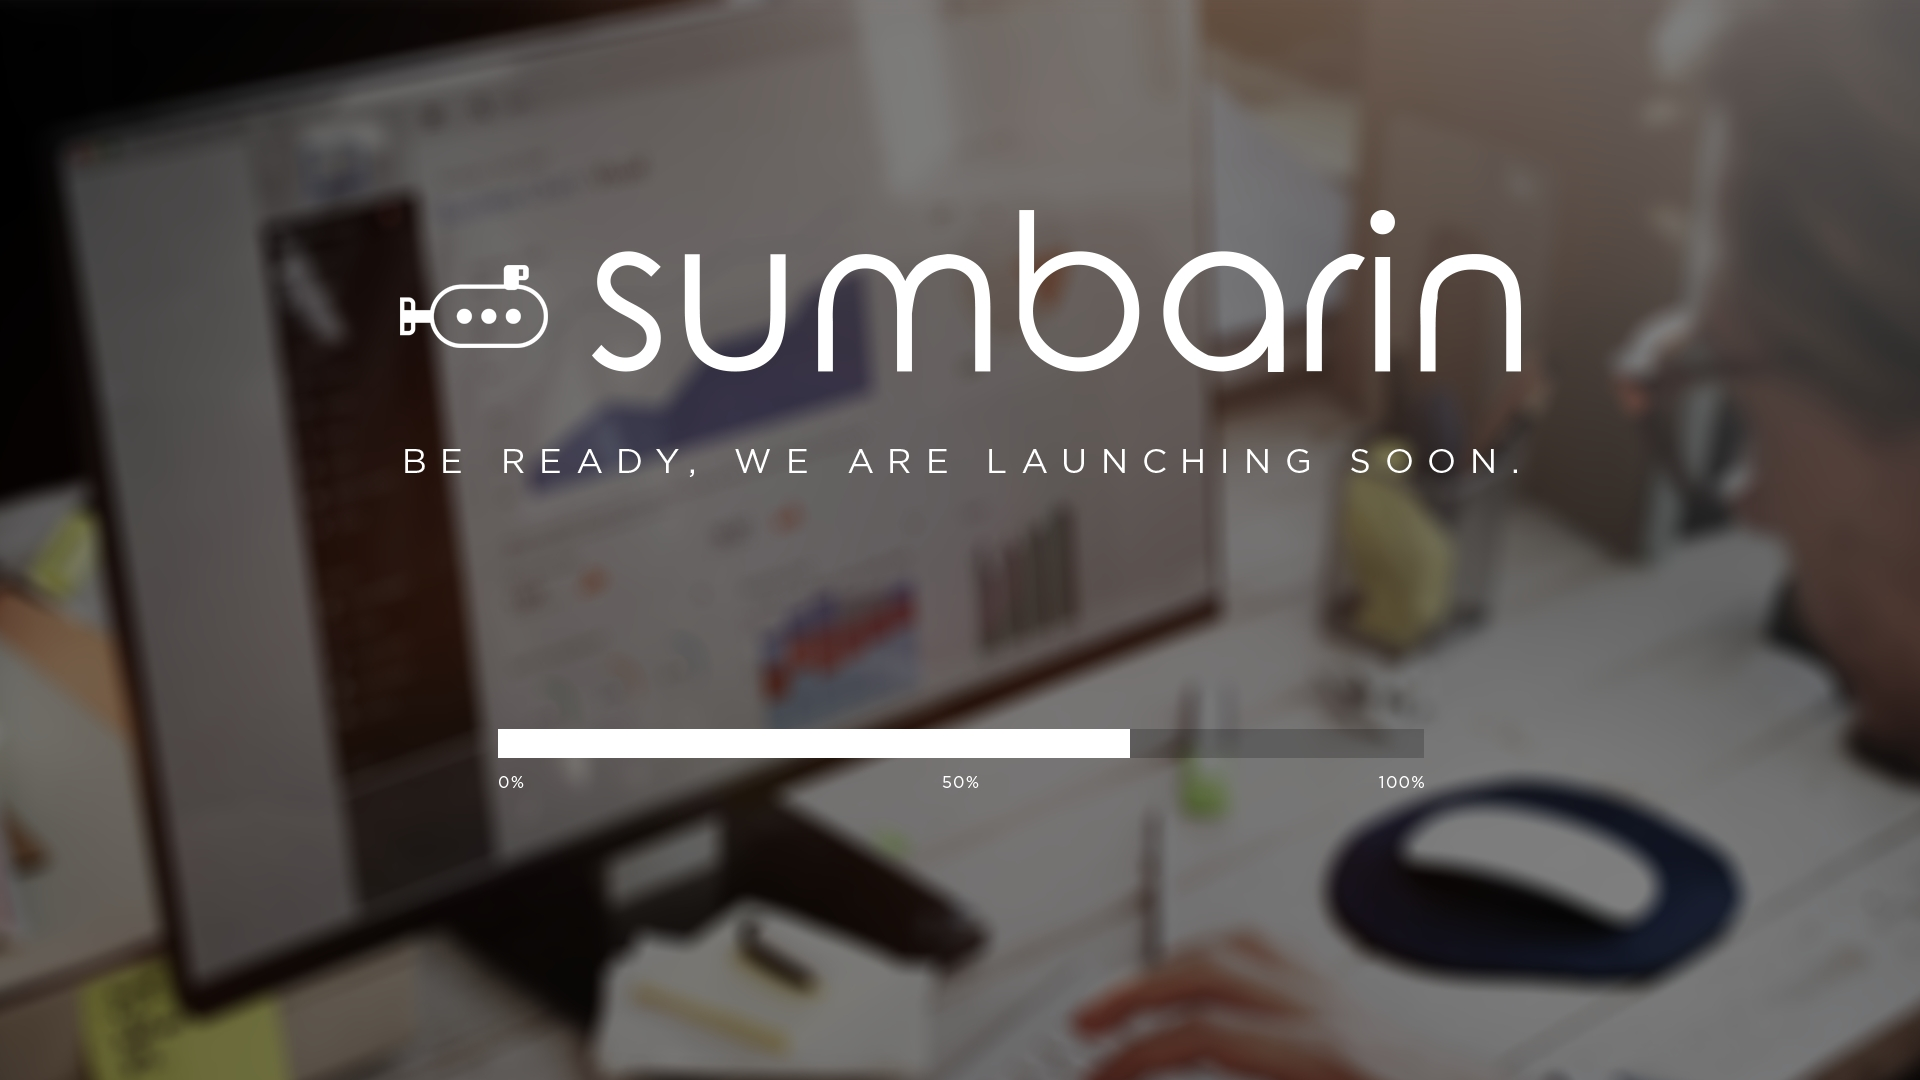
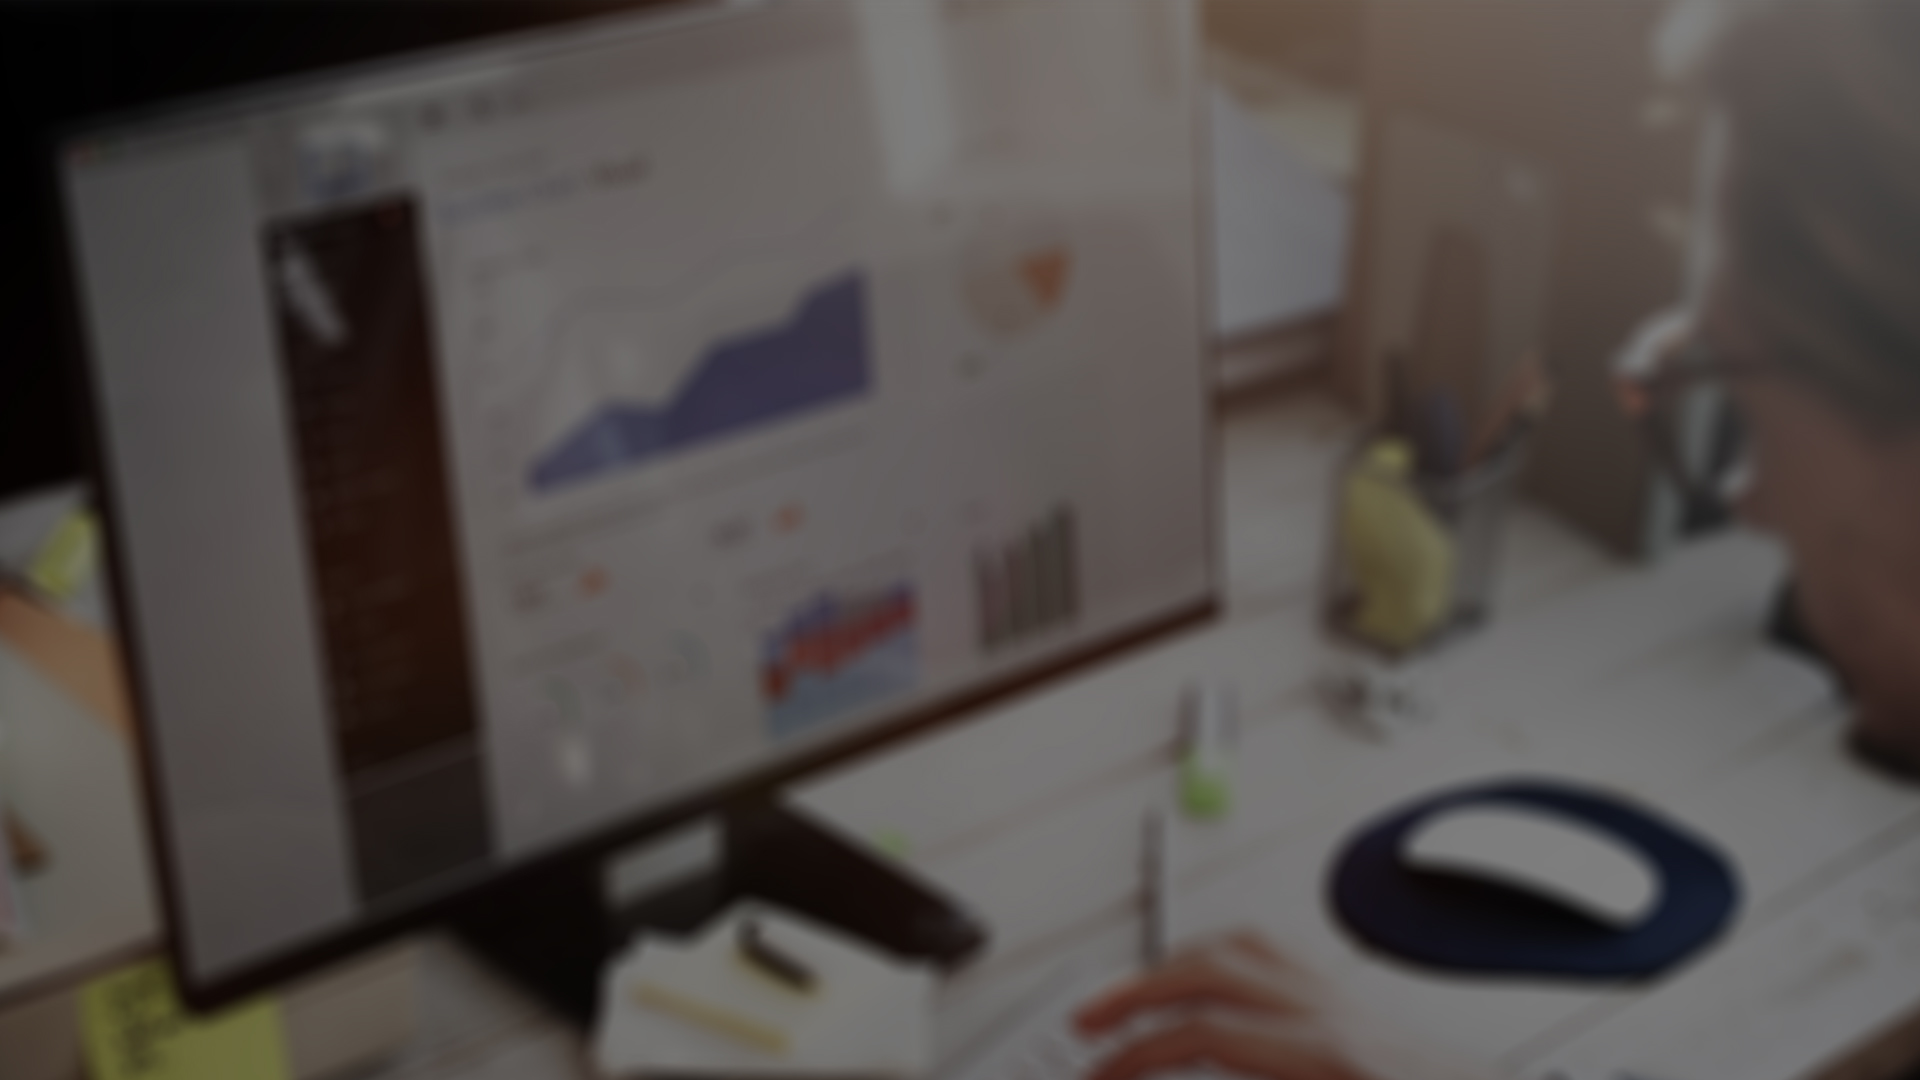
updated comming soon

diff --git a/dist/bundle.js b/dist/bundle.js
@@ -17575,11 +17575,7 @@ var _LaunchingSoon2 = _interopRequireDefault(_LaunchingSoon);
 function _interopRequireDefault(obj) { return obj && obj.__esModule ? obj : { default: obj }; }
 
 function Home() {
-    return _react2.default.createElement(
-        'div',
-        null,
-        _react2.default.createElement(_LaunchingSoon2.default, null)
-    );
+    return _react2.default.createElement(_LaunchingSoon2.default, null);
 }
 
 exports.default = Home;
@@ -17594,6 +17590,7 @@ exports.default = Home;
 Object.defineProperty(exports, "__esModule", {
     value: true
 });
+exports.default = LaunchingSoon;
 
 var _react = __webpack_require__(12);
 
@@ -17604,10 +17601,52 @@ var _LaunchingSoonStyle = __webpack_require__(94);
 function _interopRequireDefault(obj) { return obj && obj.__esModule ? obj : { default: obj }; }
 
 function LaunchingSoon() {
-    return _react2.default.createElement(_LaunchingSoonStyle.LanchingSoonSection, null);
+    return _react2.default.createElement(
+        _LaunchingSoonStyle.LanchingSoonSection,
+        null,
+        _react2.default.createElement(
+            _LaunchingSoonStyle.Title,
+            null,
+            'Sumbarin'
+        ),
+        _react2.default.createElement(
+            _LaunchingSoonStyle.Content,
+            null,
+            'Be ready, we are lauching soon'
+        ),
+        _react2.default.createElement(
+            _LaunchingSoonStyle.List,
+            null,
+            _react2.default.createElement(
+                _LaunchingSoonStyle.List__Item,
+                null,
+                _react2.default.createElement(
+                    _LaunchingSoonStyle.Link__Twitter,
+                    { href: 'http://www.twitter.com/thesumbarin' },
+                    'Twitter'
+                )
+            ),
+            _react2.default.createElement(
+                _LaunchingSoonStyle.List__Item,
+                null,
+                _react2.default.createElement(
+                    _LaunchingSoonStyle.Link__Facebook,
+                    { href: 'http://www.facebook.com/thesumbarin' },
+                    'Facebook'
+                )
+            ),
+            _react2.default.createElement(
+                _LaunchingSoonStyle.List__Item,
+                null,
+                _react2.default.createElement(
+                    _LaunchingSoonStyle.Link__Instagram,
+                    { href: 'http://www.instagram.com/thesumbarin' },
+                    'Instagram'
+                )
+            )
+        )
+    );
 }
-
-exports.default = LaunchingSoon;
 
 /***/ }),
 /* 94 */
@@ -17619,10 +17658,18 @@ exports.default = LaunchingSoon;
 Object.defineProperty(exports, "__esModule", {
   value: true
 });
-exports.LanchingSoonSection = exports.xx = undefined;
+exports.Link__Instagram = exports.Link__Facebook = exports.Link__Twitter = exports.Social__Link = exports.List__Item = exports.List = exports.Content = exports.Title = exports.LanchingSoonSection = exports.xx = undefined;
 
 var _templateObject = _taggedTemplateLiteral(['\n  font-family: rounded;\n  font-size: 36px;\n  padding-top: 200px;\n  text-align: center;\n  text-transform: lowercase;\n  &:before {\n    content: "";\n    background-image: url(./public/img/icons/logoSumbarinCircleRedBg.svg);\n    background-size: contain;\n    background-repeat: no-repeat;\n    background-position: center;\n    right: 50%;\n    top: 30%;\n    display: inline-block;\n    position: absolute;\n    width: 100px;\n    height: 100px;\n    transform: translateX(50%);\n  }\n'], ['\n  font-family: rounded;\n  font-size: 36px;\n  padding-top: 200px;\n  text-align: center;\n  text-transform: lowercase;\n  &:before {\n    content: "";\n    background-image: url(./public/img/icons/logoSumbarinCircleRedBg.svg);\n    background-size: contain;\n    background-repeat: no-repeat;\n    background-position: center;\n    right: 50%;\n    top: 30%;\n    display: inline-block;\n    position: absolute;\n    width: 100px;\n    height: 100px;\n    transform: translateX(50%);\n  }\n']),
-    _templateObject2 = _taggedTemplateLiteral(['\n    background-color: white;\n    background-image: url(./public/img/backgrounds/loading.jpg);\n    background-size: cover;\n    height: 100vh;\n    width: 100%;\n    background-repeat: no-repeat;\n    background-position: center;\n'], ['\n    background-color: white;\n    background-image: url(./public/img/backgrounds/loading.jpg);\n    background-size: cover;\n    height: 100vh;\n    width: 100%;\n    background-repeat: no-repeat;\n    background-position: center;\n']);
+    _templateObject2 = _taggedTemplateLiteral(['\n    background-color: white;\n    background-image: url(./public/img/backgrounds/loading.jpg);\n    background-size: cover;\n    height: 100vh;\n    width: 100%;\n    background-repeat: no-repeat;\n    background-position: center;\n    text-align: center;\n'], ['\n    background-color: white;\n    background-image: url(./public/img/backgrounds/loading.jpg);\n    background-size: cover;\n    height: 100vh;\n    width: 100%;\n    background-repeat: no-repeat;\n    background-position: center;\n    text-align: center;\n']),
+    _templateObject3 = _taggedTemplateLiteral(['\n  font-family: rounded;\n  font-size: 80px;\n  padding-top: 200px;\n  text-align: center;\n  text-transform: lowercase;\n  color: white;\n  @media (min-width: 768px) {\n\t\t  font-size: 120px;\n\t}\n'], ['\n  font-family: rounded;\n  font-size: 80px;\n  padding-top: 200px;\n  text-align: center;\n  text-transform: lowercase;\n  color: white;\n  @media (min-width: 768px) {\n\t\t  font-size: 120px;\n\t}\n']),
+    _templateObject4 = _taggedTemplateLiteral(['\n  font-family: lato;\n  font-size: 24px;\n  text-align: center;\n  text-transform: lowercase;\n  color: white;\n  @media (min-width: 768px) {\n    font-size: 28px;\n  }\n'], ['\n  font-family: lato;\n  font-size: 24px;\n  text-align: center;\n  text-transform: lowercase;\n  color: white;\n  @media (min-width: 768px) {\n    font-size: 28px;\n  }\n']),
+    _templateObject5 = _taggedTemplateLiteral(['\n  color: rgb(32, 42, 46);\n  margin-bottom: 20px;\n  padding-left: 0;\n'], ['\n  color: rgb(32, 42, 46);\n  margin-bottom: 20px;\n  padding-left: 0;\n']),
+    _templateObject6 = _taggedTemplateLiteral(['\n  color: black;\n  display: inline-block;\n  flex: 0 0 auto;\n  font-size: 28px;\n  width: 42px;\n  height: 42px;\n  margin: 0 24px;\n'], ['\n  color: black;\n  display: inline-block;\n  flex: 0 0 auto;\n  font-size: 28px;\n  width: 42px;\n  height: 42px;\n  margin: 0 24px;\n']),
+    _templateObject7 = _taggedTemplateLiteral(['\n  color: white;\n  background-size: contain;\n  background-repeat: no-repeat;\n  background-position: center;\n  text-indent: -9999px;\n  white-space: nowrap;\n  display: inline-block;\n  position: relative;\n  height: 100%;\n  width: 100%;\n  transtion: color .2s;\n  &:hover {\n    color: black;\n  }\n'], ['\n  color: white;\n  background-size: contain;\n  background-repeat: no-repeat;\n  background-position: center;\n  text-indent: -9999px;\n  white-space: nowrap;\n  display: inline-block;\n  position: relative;\n  height: 100%;\n  width: 100%;\n  transtion: color .2s;\n  &:hover {\n    color: black;\n  }\n']),
+    _templateObject8 = _taggedTemplateLiteral(['\n  background-image: url(./public/img/icons/logoTwitter.svg);\n'], ['\n  background-image: url(./public/img/icons/logoTwitter.svg);\n']),
+    _templateObject9 = _taggedTemplateLiteral(['\n  background-image: url(./public/img/icons/logoFacebook.svg);\n'], ['\n  background-image: url(./public/img/icons/logoFacebook.svg);\n']),
+    _templateObject10 = _taggedTemplateLiteral(['\n  background-image: url(./public/img/icons/logoInstagram.svg);\n'], ['\n  background-image: url(./public/img/icons/logoInstagram.svg);\n']);
 
 var _styledComponents = __webpack_require__(16);
 
@@ -17637,6 +17684,18 @@ function _taggedTemplateLiteral(strings, raw) { return Object.freeze(Object.defi
 var xx = exports.xx = (0, _styledComponents2.default)(_styles.Section__Title)(_templateObject);
 
 var LanchingSoonSection = exports.LanchingSoonSection = (0, _styledComponents2.default)('div')(_templateObject2);
+
+var Title = exports.Title = (0, _styledComponents2.default)('h1')(_templateObject3);
+
+var Content = exports.Content = (0, _styledComponents2.default)('p')(_templateObject4);
+
+var List = exports.List = _styledComponents2.default.ul(_templateObject5);
+var List__Item = exports.List__Item = _styledComponents2.default.li(_templateObject6);
+
+var Social__Link = exports.Social__Link = _styledComponents2.default.a(_templateObject7);
+var Link__Twitter = exports.Link__Twitter = (0, _styledComponents2.default)(Social__Link)(_templateObject8);
+var Link__Facebook = exports.Link__Facebook = (0, _styledComponents2.default)(Social__Link)(_templateObject9);
+var Link__Instagram = exports.Link__Instagram = (0, _styledComponents2.default)(Social__Link)(_templateObject10);
 
 /***/ }),
 /* 95 */

diff --git a/public/modules/LaunchingSoon/LaunchingSoonStyle.js b/public/modules/LaunchingSoon/LaunchingSoonStyle.js
@@ -31,4 +31,69 @@ export const LanchingSoonSection = styled('div')`
     width: 100%;
     background-repeat: no-repeat;
     background-position: center;
+    text-align: center;
 `;
+
+export const Title = styled('h1')`
+  font-family: rounded;
+  font-size: 80px;
+  padding-top: 200px;
+  text-align: center;
+  text-transform: lowercase;
+  color: white;
+  @media (min-width: 768px) {
+		  font-size: 120px;
+	}
+`;
+
+export const Content = styled('p')`
+  font-family: lato;
+  font-size: 24px;
+  text-align: center;
+  text-transform: lowercase;
+  color: white;
+  @media (min-width: 768px) {
+    font-size: 28px;
+  }
+`;
+
+export const List = styled.ul `
+  color: rgb(32, 42, 46);
+  margin-bottom: 20px;
+  padding-left: 0;
+`
+export const List__Item = styled.li `
+  color: black;
+  display: inline-block;
+  flex: 0 0 auto;
+  font-size: 28px;
+  width: 42px;
+  height: 42px;
+  margin: 0 24px;
+`
+
+export const Social__Link = styled.a `
+  color: white;
+  background-size: contain;
+  background-repeat: no-repeat;
+  background-position: center;
+  text-indent: -9999px;
+  white-space: nowrap;
+  display: inline-block;
+  position: relative;
+  height: 100%;
+  width: 100%;
+  transtion: color .2s;
+  &:hover {
+    color: black;
+  }
+`
+export const Link__Twitter = styled(Social__Link)`
+  background-image: url(./public/img/icons/logoTwitter.svg);
+`
+export const Link__Facebook = styled(Social__Link)`
+  background-image: url(./public/img/icons/logoFacebook.svg);
+`
+export const Link__Instagram = styled(Social__Link)`
+  background-image: url(./public/img/icons/logoInstagram.svg);
+`

diff --git a/public/modules/LaunchingSoon/LaunchingSoon.js b/public/modules/LaunchingSoon/LaunchingSoon.js
@@ -1,10 +1,22 @@
 import React from 'react';
-import { LanchingSoonSection } from './LaunchingSoonStyle';
+import {LanchingSoonSection, Title, Content, List, List__Item, Link__Facebook, Link__Twitter, Link__Instagram} from './LaunchingSoonStyle';
 
-function LaunchingSoon() {
+export default function LaunchingSoon() {
     return (
-        <LanchingSoonSection/>
+        <LanchingSoonSection>
+            <Title>Sumbarin</Title>
+            <Content>Be ready, we are lauching soon</Content>
+            <List>
+                <List__Item>
+                    <Link__Twitter href="http://www.twitter.com/thesumbarin">Twitter</Link__Twitter>
+                </List__Item>
+                <List__Item>
+                    <Link__Facebook href="http://www.facebook.com/thesumbarin">Facebook</Link__Facebook>
+                </List__Item>
+                <List__Item>
+                    <Link__Instagram href="http://www.instagram.com/thesumbarin">Instagram</Link__Instagram>
+                </List__Item>
+            </List>
+        </LanchingSoonSection>
     );
 }
-
-export default LaunchingSoon;

diff --git a/public/modules/Home/Home.js b/public/modules/Home/Home.js
@@ -9,9 +9,7 @@ import LaunchingSoon from '../LaunchingSoon/LaunchingSoon';
 
 function Home() {
     return (
-        <div>
-            <LaunchingSoon/>
-        </div>
+        <LaunchingSoon />
     );
 }
 
